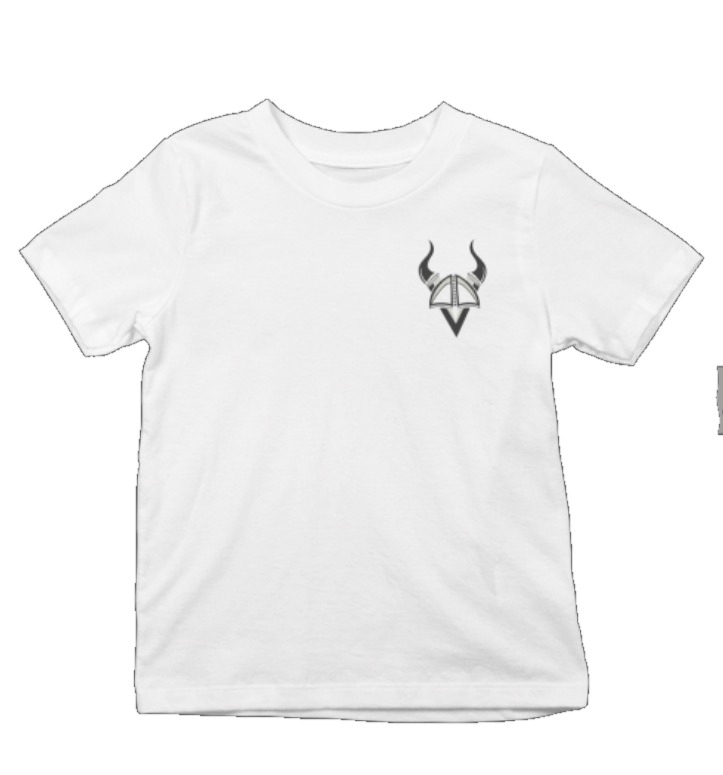
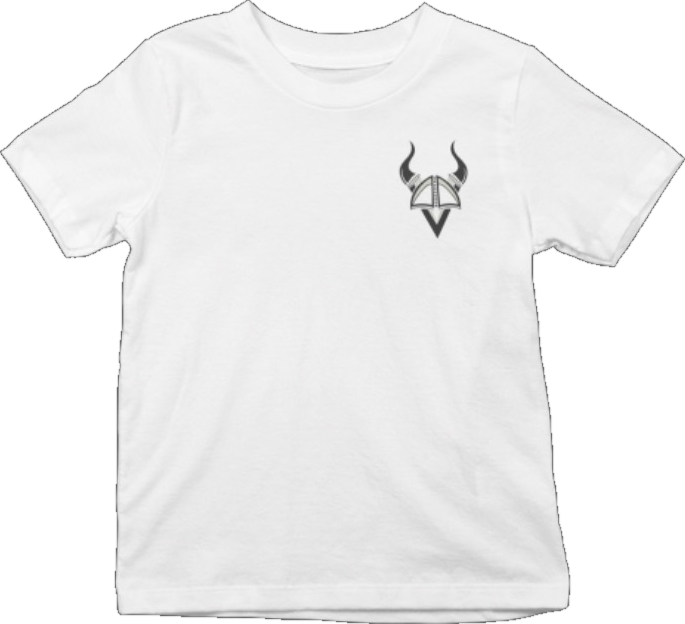
Cadre vertical et reflet facon miroir dans l'eau
La carte passe en rectangle vertical (358 x 620) et se decoupe en deux :
le vetement en haut, sa reprise a l'envers en dessous, estompee par un
degrade, comme un reflet a la surface de l'eau.

Le reflet est en object-fit:cover et non contain, sinon il serait reduit
pour tenir dans une case plus basse et perdrait l'echelle du vetement.

Les PNG detoures sont rognes sur leur contenu reel : leur marge
transparente ouvrait un vide entre le vetement et son reflet, qui
cassait l'illusion. Une echarde de 419 pixels laissee par le detourage
du t-shirt blanc est retiree au passage.

Verifie sur six formats de 320x700 a 560x900 : hauteurs egales, cinq
articles centrables, aucun debordement.

diff --git a/boutique.html b/boutique.html
@@ -190,10 +190,10 @@
 
   .product-item{
     flex:0 0 358px;
-    height:min(470px, 100%);
+    /* Rectangle vertical, facon embrasure de porte. */
+    height:min(620px, 100%);
     display:flex;
-    align-items:center;
-    justify-content:center;
+    flex-direction:column;
     background:radial-gradient(circle at 25% 15%, rgba(155,107,255,.12), transparent 55%),
                 radial-gradient(circle at 80% 85%, rgba(61,220,132,.1), transparent 55%);
     border-radius:16px;
@@ -203,17 +203,38 @@
     box-shadow:0 20px 60px rgba(0,0,0,.4);
     transform:scale(0.95);
     transition:transform .4s cubic-bezier(.25,.46,.45,.94);
+    overflow:hidden;
   }
 
   .product-item:hover{
     transform:scale(1) translateZ(50px);
   }
 
-  .product-item img{
+  .product-shot{
+    flex:0 0 58%;
+    min-height:0;
     width:100%;
-    height:100%;
     object-fit:contain;
+    object-position:center bottom;
     filter:drop-shadow(0 10px 30px rgba(155,107,255,.2));
+  }
+
+  /* Le vetement repris a l'envers sous lui, comme un reflet dans l'eau. */
+  .product-reflection{
+    flex:1 1 auto;
+    min-height:0;
+    width:100%;
+    /* cover, pas contain : le reflet garde l'echelle du vetement au lieu
+       d'etre reduit pour tenir dans une case plus basse. */
+    object-fit:cover;
+    object-position:center bottom;
+    transform:scaleY(-1);
+    opacity:.3;
+    /* Opaque en bas dans le repere de l'image : une fois retournee,
+       c'est le haut du reflet, du cote du vetement. */
+    -webkit-mask-image:linear-gradient(to top, #000, transparent 72%);
+    mask-image:linear-gradient(to top, #000, transparent 72%);
+    pointer-events:none;
   }
 
   .shortcuts-bar{
@@ -344,7 +365,9 @@
     const div = document.createElement('div');
     div.className = 'product-item';
 
-    div.innerHTML = `<img src="${product.image}" alt="${product.name}">`;
+    div.innerHTML = `
+      <img src="${product.image}" alt="${product.name}" class="product-shot">
+      <img src="${product.image}" alt="" aria-hidden="true" class="product-reflection">`;
 
     div.addEventListener('click', () => {
       window.location.href = `product.html?item=${product.id}`;
